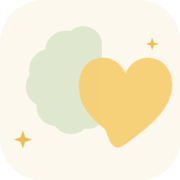
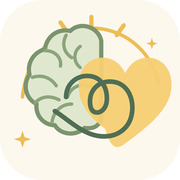
Add iOS home screen support

diff --git a/frontend/src/index.html b/frontend/src/index.html
@@ -6,8 +6,12 @@
   <base href="/">
   <meta name="viewport" content="width=device-width, initial-scale=1">
   <meta name="theme-color" content="#f8f5e9">
+  <meta name="apple-mobile-web-app-title" content="Conseils de Doudou">
+  <meta name="apple-mobile-web-app-capable" content="yes">
+  <meta name="apple-mobile-web-app-status-bar-style" content="default">
   <meta name="description" content="Un espace accueillant pour trouver une écoute, prendre rendez-vous et partager à ton rythme.">
   <link rel="icon" type="image/svg+xml" href="doudou.svg">
+  <link rel="apple-touch-icon" sizes="180x180" href="apple-touch-icon.png">
 </head>
 <body>
   <app-root></app-root>
